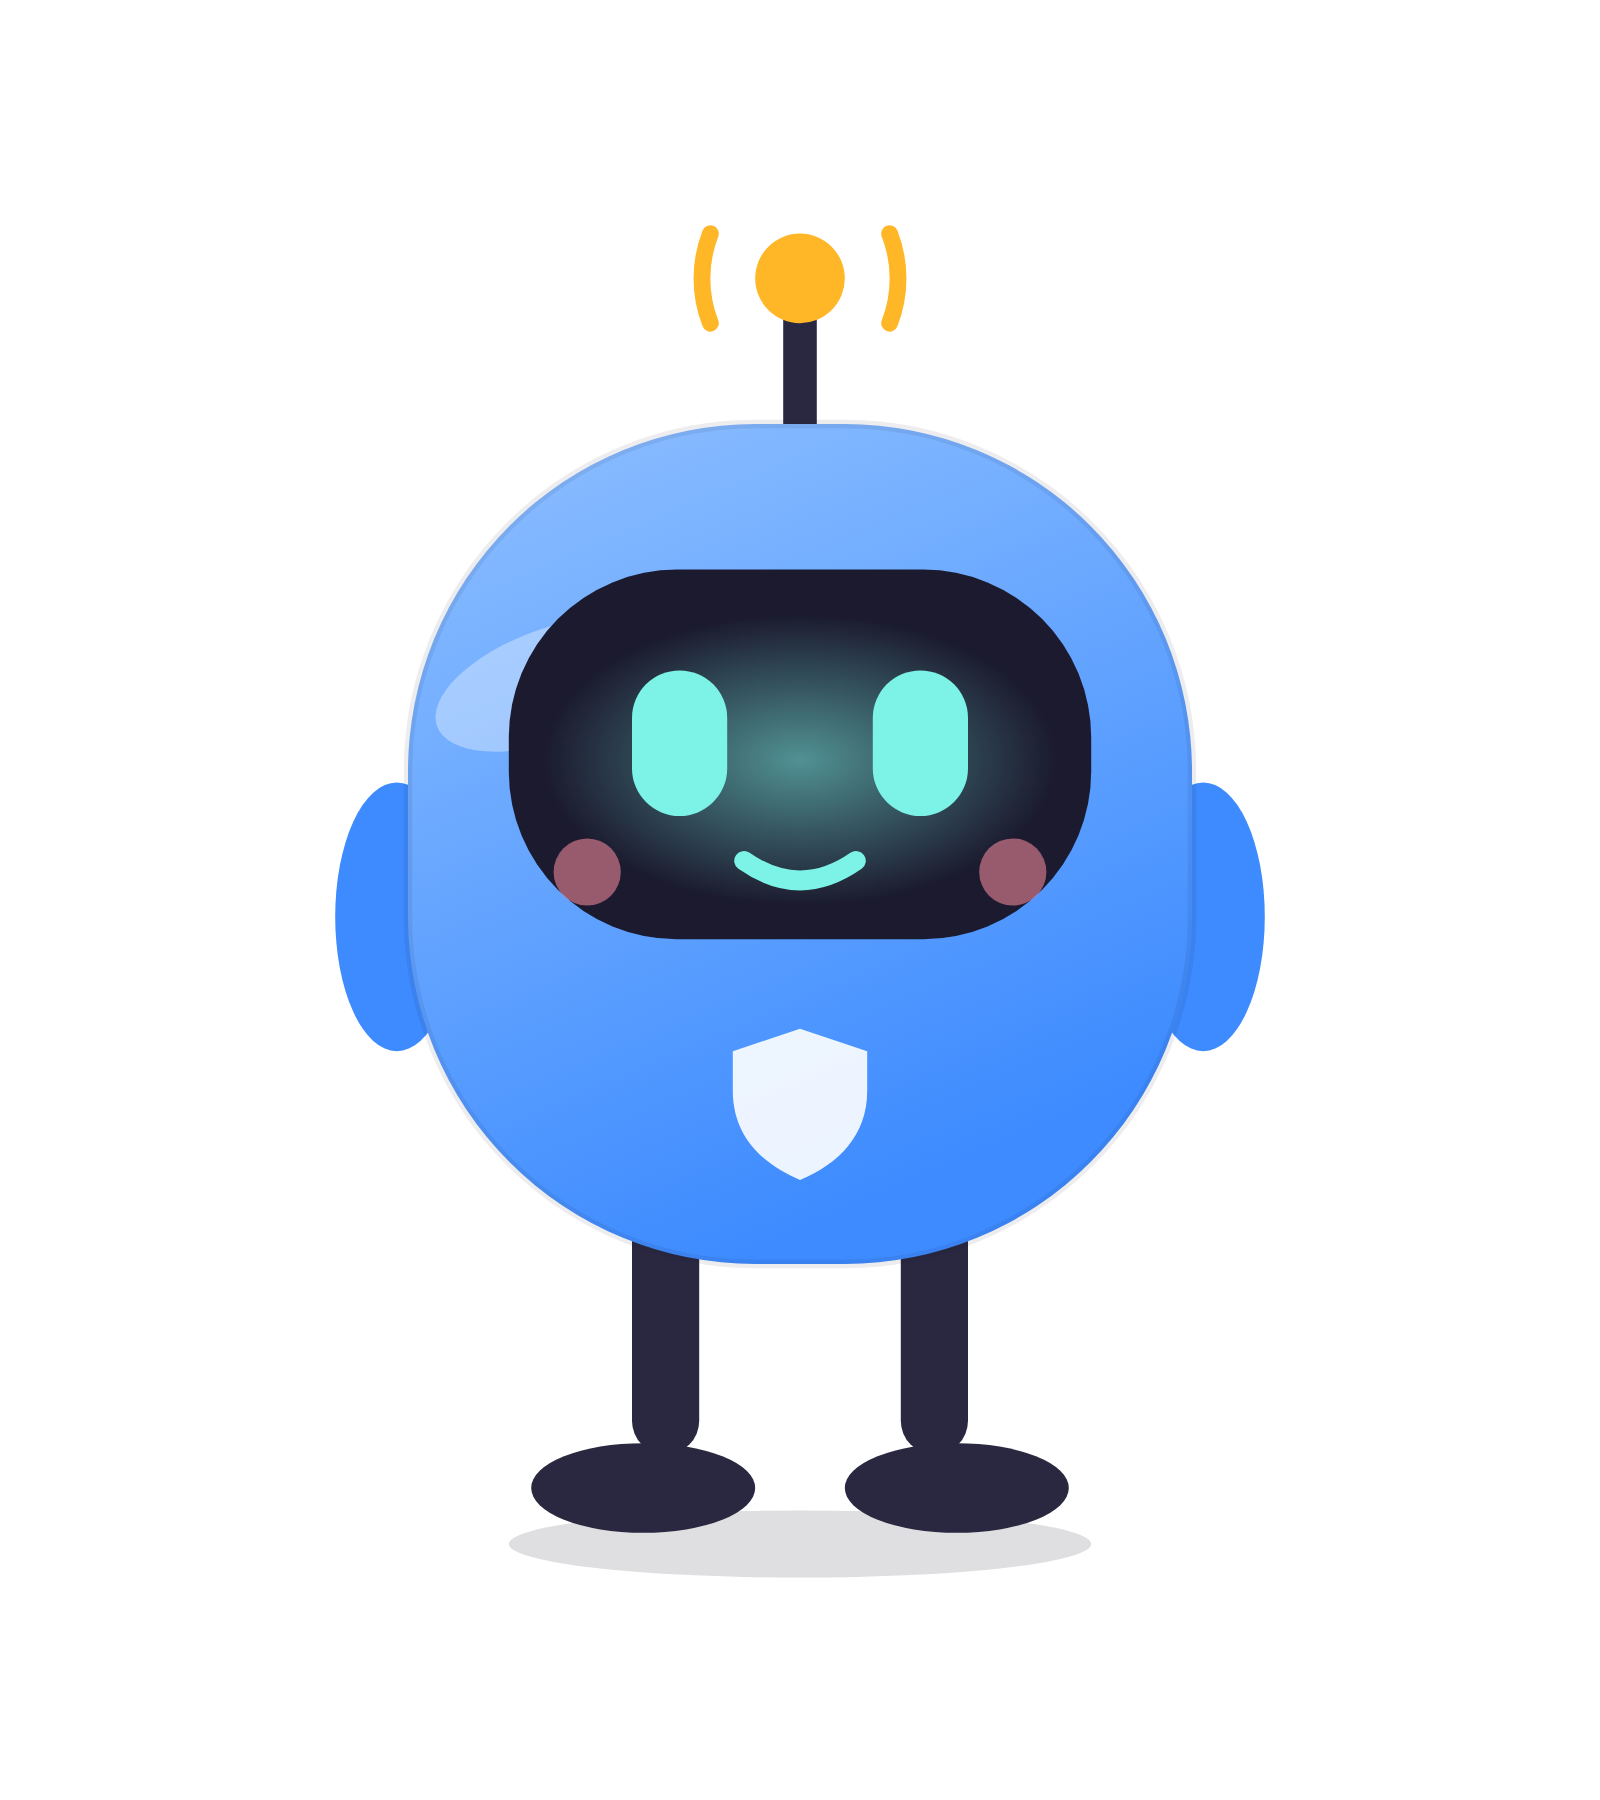
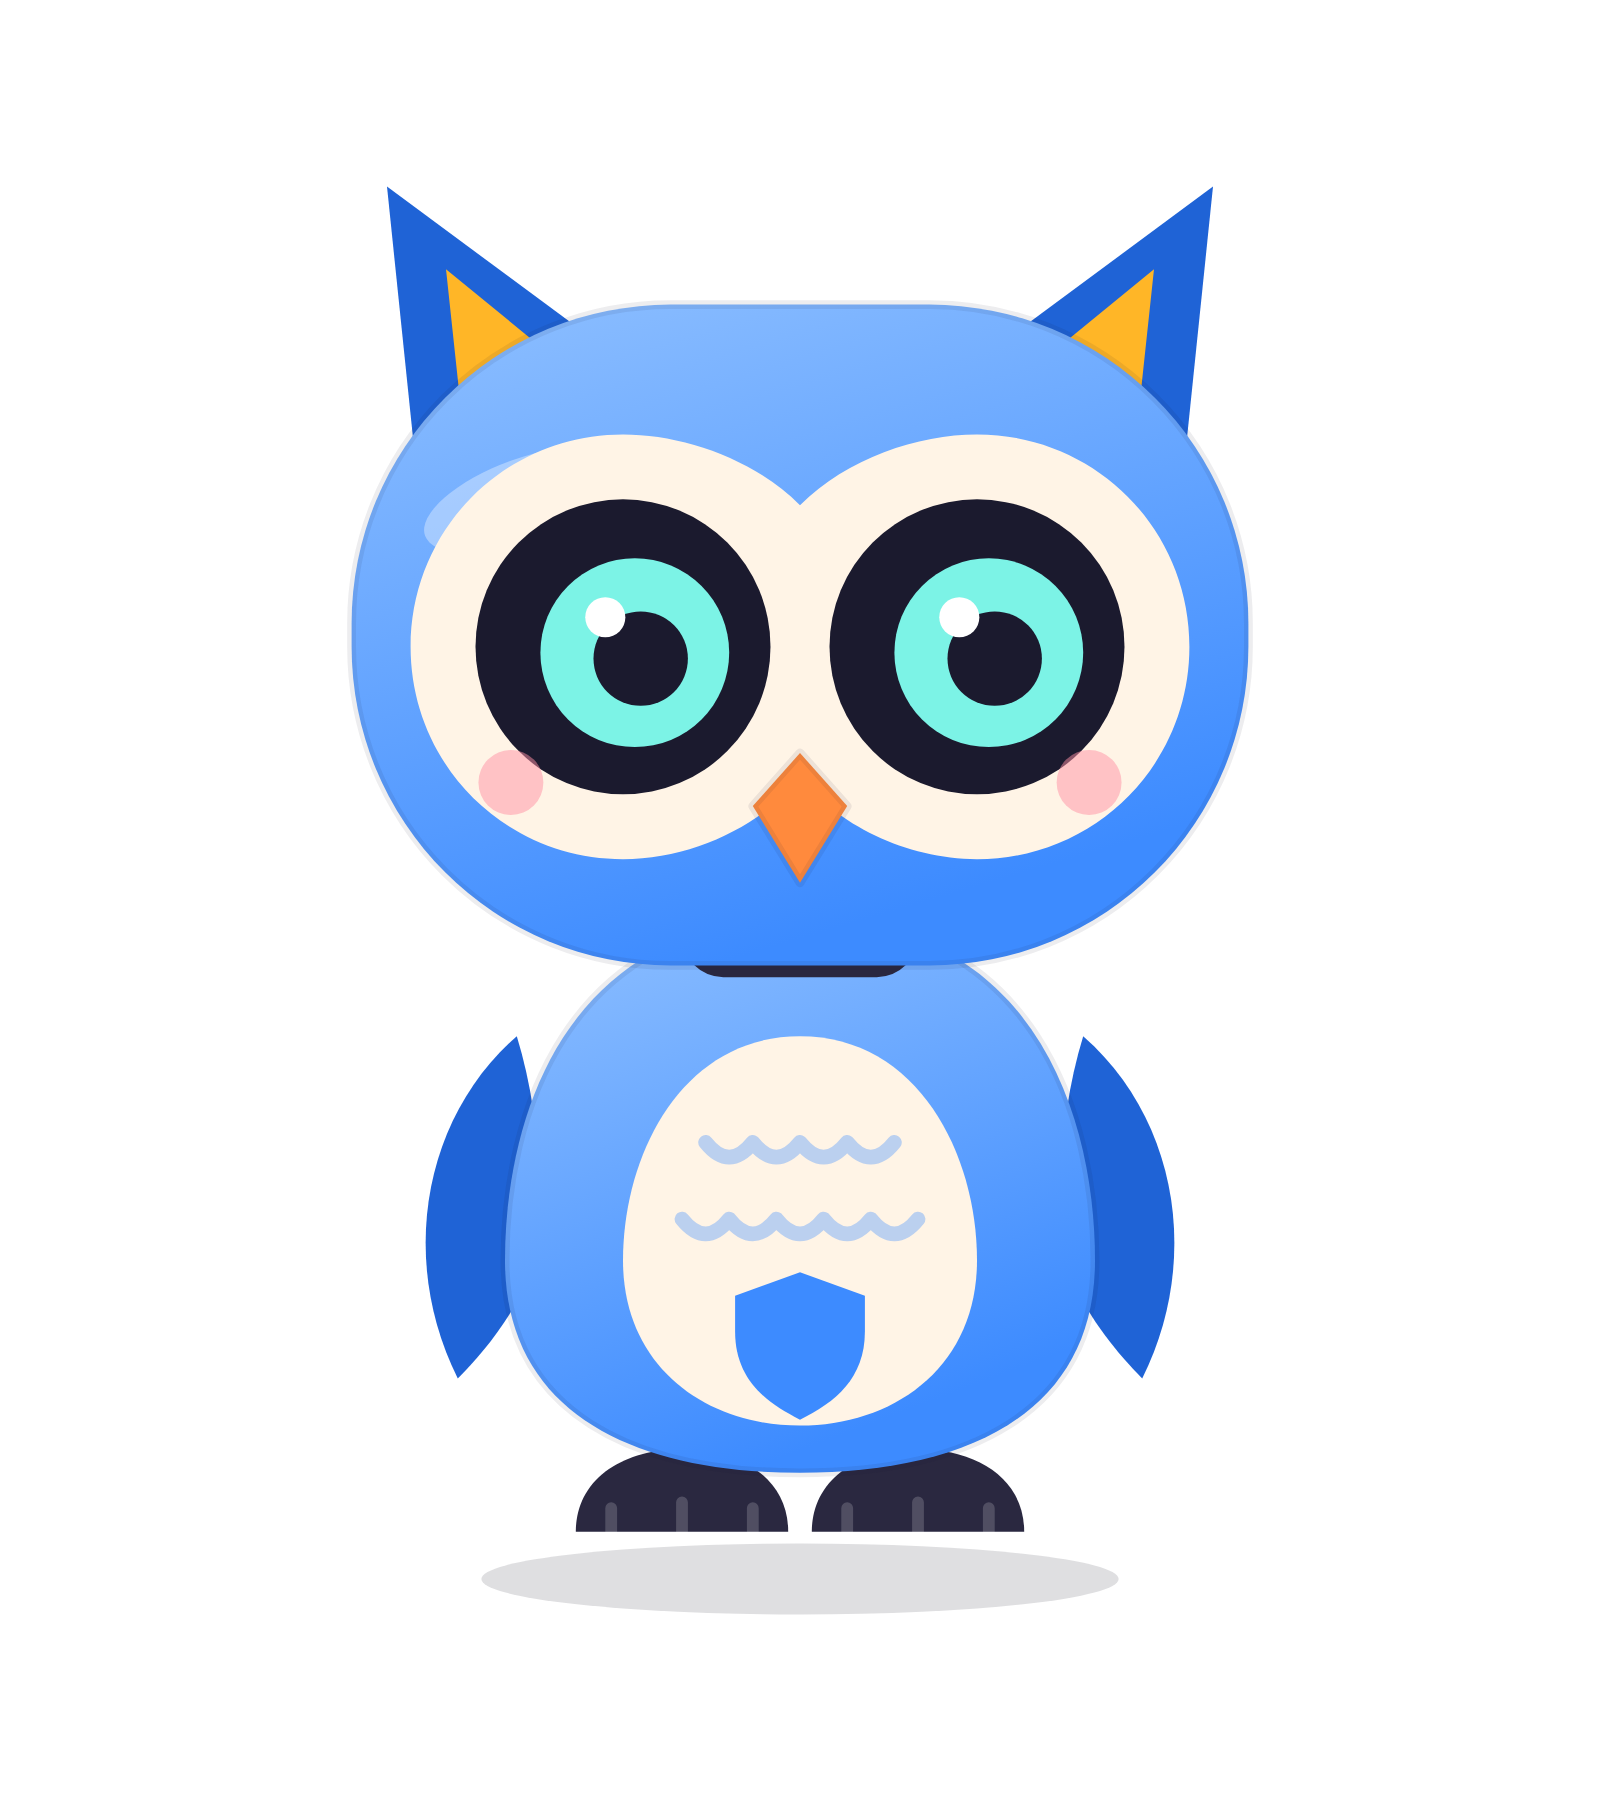
Redesign the Wobi robots as owls
Replace the generic robot look (screen face, ball antenna, stick legs) with
an owl character: big head on a visible neck joint, facial disc with round
LCD eyes, beak, wings, feathered belly and feet that hide the wheels.
Each line keeps its colour and gets its own ears: round (Care), pointed
alert tufts (Guard), spring antennae (Play). The head turns now and then
like an owl, the body keeps the penguin sway and the feet stay down.

Logo mark, favicon, OG image and press renders updated to match.

Claude-Session: https://claude.ai/code/session_01YD52KmMoyfRhwuc9eb3qey

diff --git a/src/styles/global.css b/src/styles/global.css
@@ -229,13 +229,15 @@ p {
   animation: blink 5s infinite;
 }
 
-/* Robot */
+/* Robot: owl-like companion. The feet hide wheels, so the body sways like a penguin while the feet stay down. */
 .robot {
   --r-main: var(--coral);
   --r-light: #ff9a7f;
+  --r-deep: #d9472a;
   --r-dark: #2a2840;
   --r-eye: var(--eye);
   --r-accent: var(--sun);
+  --r-face: #fff4e6;
   --ex: 0px;
   --ey: 0px;
   overflow: visible;
@@ -244,18 +246,21 @@ p {
 .robot--care {
   --r-main: #ff6b4a;
   --r-light: #ffa48c;
+  --r-deep: #e04f2f;
   --r-accent: #ffd1c4;
 }
 
 .robot--guard {
   --r-main: #3d8bff;
   --r-light: #8fc0ff;
+  --r-deep: #1f63d6;
   --r-accent: #ffb627;
 }
 
 .robot--play {
   --r-main: #ffb627;
   --r-light: #ffd978;
+  --r-deep: #e08e00;
   --r-accent: #ff6b4a;
 }
 
@@ -274,6 +279,12 @@ p {
   fill: var(--r-dark);
 }
 
+.r-toe {
+  stroke: rgba(255, 255, 255, 0.18);
+  stroke-width: 2;
+  stroke-linecap: round;
+}
+
 .r-shell {
   stroke: rgba(27, 26, 46, 0.08);
   stroke-width: 1.5;
@@ -284,9 +295,22 @@ p {
   opacity: 0.35;
 }
 
+.r-belly,
+.r-screen {
+  fill: var(--r-face);
+}
+
+.r-feather {
+  fill: none;
+  stroke: color-mix(in srgb, var(--r-main) 35%, transparent);
+  stroke-width: 2.5;
+  stroke-linecap: round;
+  stroke-linejoin: round;
+}
+
 .r-arm {
-  fill: var(--r-main);
-  transform-origin: 50% 15%;
+  fill: var(--r-deep);
+  transform-origin: 50% 10%;
 }
 
 .r-arm--l {
@@ -301,7 +325,13 @@ p {
   animation: wave 1.4s ease-in-out infinite;
 }
 
-.r-screen {
+/* The head turns and tilts on its neck now and then, like an owl */
+.r-head {
+  transform-origin: 50% 100%;
+  animation: look 7s ease-in-out infinite;
+}
+
+.r-socket {
   fill: var(--ink);
 }
 
@@ -311,87 +341,82 @@ p {
 }
 
 .r-eye {
-  fill: var(--r-eye);
   transform-origin: center;
   animation: blink 4.6s infinite;
 }
 
-.r-mouth {
-  fill: none;
-  stroke: var(--r-eye);
-  stroke-width: 3.5;
-  stroke-linecap: round;
+.r-iris {
+  fill: var(--r-eye);
+}
+
+.r-pupil {
+  fill: var(--ink);
+}
+
+.r-glint {
+  fill: #fff;
+}
+
+.r-beak {
+  fill: #ff8a3d;
+  stroke: rgba(27, 26, 46, 0.08);
+  stroke-width: 1.5;
+  stroke-linejoin: round;
+}
+
+.robot--play .r-beak {
+  fill: #ff6b4a;
 }
 
 .r-cheek {
   fill: #ff8fa3;
-  opacity: 0.55;
-}
-
-.robot--care .r-cheek {
-  fill: #fff;
-  opacity: 0.4;
+  opacity: 0.5;
 }
 
 .r-emblem path {
-  fill: #fff;
-  opacity: 0.9;
+  fill: var(--r-main);
+}
+
+.r-ear {
+  fill: var(--r-deep);
 }
 
 .r-tip {
   fill: var(--r-accent);
 }
 
-.robot--care .r-tip {
-  fill: #fff;
-  stroke: var(--r-main);
-  stroke-width: 3;
-}
-
 .r-tip--alt {
   fill: var(--sky);
 }
 
-.r-wave {
+.r-spring {
   fill: none;
-  stroke: var(--r-accent);
-  stroke-width: 3;
+  stroke: var(--r-deep);
+  stroke-width: 6;
   stroke-linecap: round;
-  animation: radar 1.8s ease-out infinite;
-}
-
-.r-prop {
-  transform-origin: center;
-  animation: spin 1.2s linear infinite;
 }
 
 .r-antenna {
   transform-origin: 50% 100%;
-  animation: antenna 3s ease-in-out infinite;
+  animation: antenna 1.6s ease-in-out infinite;
 }
 
-/* Waddle: body sways, legs alternate */
+.r-antenna--r {
+  animation-delay: -0.8s;
+}
+
+/* Waddle: the body sways side to side over the wheels */
 .r-body {
   transform-origin: 50% 100%;
   animation: sway 1.6s ease-in-out infinite;
-}
-
-.r-leg {
-  transform-origin: 50% 0%;
-}
-
-.r-leg--l {
-  animation: step-l 1.6s ease-in-out infinite;
-}
-
-.r-leg--r {
-  animation: step-r 1.6s ease-in-out infinite;
 }
 
 .robot--blueprint .r-shell,
 .robot--blueprint .r-arm,
 .robot--blueprint .r-limb,
 .robot--blueprint .r-foot,
+.robot--blueprint .r-ear,
+.robot--blueprint .r-socket,
 .robot--blueprint .r-tip {
   fill: none;
   stroke: var(--eye);
@@ -399,7 +424,8 @@ p {
   stroke-dasharray: 4 4;
 }
 
-.robot--blueprint .r-screen {
+.robot--blueprint .r-screen,
+.robot--blueprint .r-belly {
   fill: rgba(124, 243, 230, 0.08);
   stroke: var(--eye);
   stroke-width: 1.5;
@@ -407,50 +433,60 @@ p {
 
 .robot--blueprint .r-shine,
 .robot--blueprint .r-cheek,
-.robot--blueprint .r-shadow {
+.robot--blueprint .r-shadow,
+.robot--blueprint .r-feather,
+.robot--blueprint .r-glint {
   display: none;
 }
 
-.robot--blueprint .r-emblem path {
+.robot--blueprint .r-emblem path,
+.robot--blueprint .r-beak,
+.robot--blueprint .r-spring {
   fill: none;
   stroke: var(--eye);
+  stroke-width: 1.5;
+}
+
+.robot--blueprint .r-iris {
+  fill: rgba(124, 243, 230, 0.35);
+}
+
+.robot--blueprint .r-pupil {
+  fill: var(--eye);
 }
 
 @keyframes sway {
   0%,
   100% {
-    transform: rotate(-3deg) translateY(0);
+    transform: rotate(-4deg) translateY(0);
   }
   25% {
-    transform: rotate(0deg) translateY(-4px);
+    transform: rotate(0deg) translateY(-3px);
   }
   50% {
-    transform: rotate(3deg) translateY(0);
+    transform: rotate(4deg) translateY(0);
   }
   75% {
-    transform: rotate(0deg) translateY(-4px);
+    transform: rotate(0deg) translateY(-3px);
   }
 }
 
-@keyframes step-l {
+@keyframes look {
   0%,
-  50%,
+  30%,
   100% {
-    transform: translateY(0);
+    transform: rotate(0deg);
   }
-  25% {
-    transform: translateY(-7px);
+  38%,
+  52% {
+    transform: rotate(-9deg) translateX(-3px);
   }
-}
-
-@keyframes step-r {
-  0%,
-  50%,
-  100% {
-    transform: translateY(0);
+  60%,
+  72% {
+    transform: rotate(7deg) translateX(2px);
   }
-  75% {
-    transform: translateY(-7px);
+  80% {
+    transform: rotate(0deg);
   }
 }
 
@@ -462,7 +498,7 @@ p {
   }
   25%,
   75% {
-    transform: scaleX(0.9);
+    transform: scaleX(0.92);
   }
 }
 
@@ -503,34 +539,23 @@ p {
     transform: rotate(-20deg);
   }
   50% {
-    transform: rotate(-60deg);
+    transform: rotate(-55deg);
   }
 }
 
 @keyframes antenna {
   0%,
   100% {
-    transform: rotate(-6deg);
+    transform: rotate(-7deg);
   }
   50% {
-    transform: rotate(6deg);
+    transform: rotate(7deg);
   }
 }
 
 @keyframes spin {
   to {
     transform: rotate(360deg);
-  }
-}
-
-@keyframes radar {
-  0% {
-    opacity: 1;
-    transform: scale(0.8);
-  }
-  100% {
-    opacity: 0;
-    transform: scale(1.4);
   }
 }
 
